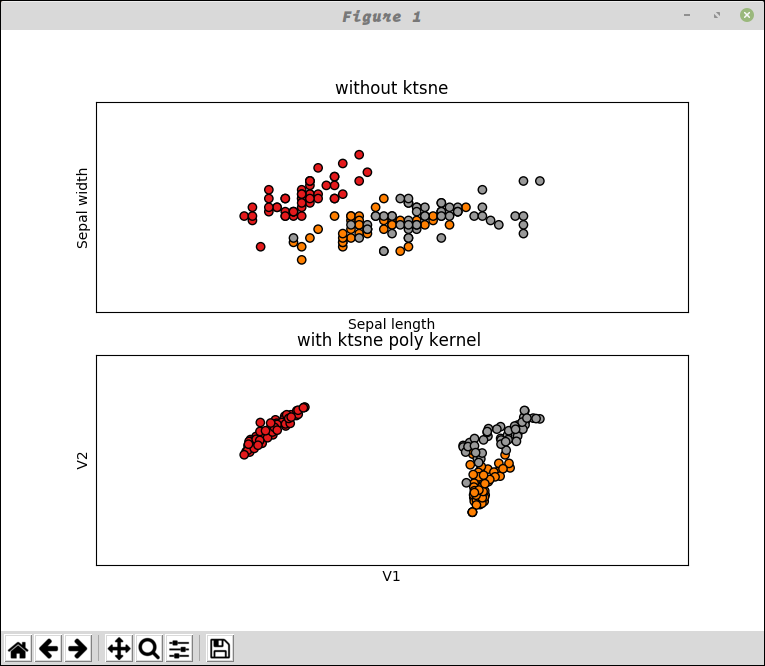
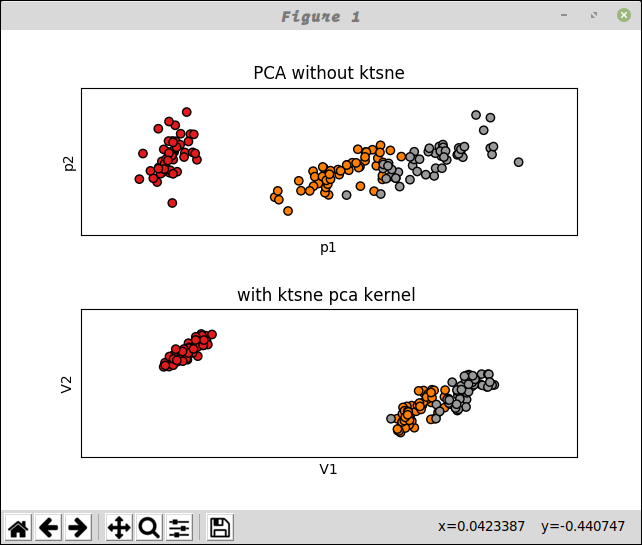
k4

diff --git a/main.py b/main.py
@@ -4,16 +4,16 @@ import matplotlib.pyplot as plt
 from ktsne import Ktsne
 from sklearn import datasets
 from sklearn.preprocessing import MinMaxScaler
-
+from sklearn.decomposition import PCA
 
 iris = datasets.load_iris()
+
 X = iris.data
 y = iris.target
-scaler = MinMaxScaler(feature_range=(0, 1))
+scaler = MinMaxScaler(feature_range=(-1, 1))
 
 f_opts = {'p_degree': 2.0, 'p_dims': 3, 'eta': 25.0,
-          'perplexity': 10.0, 'n_dims': 2, 'ker': 'fourier', 'gamma': 1.0}
-k_tsne = Ktsne(X, f_opts=f_opts)
+          'perplexity': 30.0, 'n_dims': 2, 'ker': 'pca', 'gamma': 1.0}
 
 kernel = f_opts["ker"]
 
@@ -21,37 +21,43 @@ plt.clf()
 
 
 X1 = scaler.fit_transform(X)
-x_min, x_max = X1[:, 0].min() - .5, X1[:, 0].max() + .5
-y_min, y_max = X1[:, 1].min() - .5, X1[:, 1].max() + .5
 
 plt.subplot(2, 1, 1)
 # Plot the training points
-plt.scatter(X1[:, 0], X1[:, 1], c=y, cmap=plt.cm.Set1,
-            edgecolor='k')
-plt.xlabel('Sepal length')
-plt.ylabel('Sepal width')
+X_pca = PCA(n_components=2).fit_transform(X1)
+x_min, x_max = X_pca[:, 0].min() - .5, X_pca[:, 0].max() + .5
+y_min, y_max = X_pca[:, 1].min() - .5, X_pca[:, 1].max() + .5
 
+plt.scatter(X_pca[:, 0], X_pca[:, 1], c=y, cmap=plt.cm.Set1,
+            edgecolor='k')
+plt.xlabel('p1')
+plt.ylabel('p2')
 plt.xlim(x_min, x_max)
 plt.ylim(y_min, y_max)
 plt.xticks(())
 plt.yticks(())
-plt.title("without ktsne")
+plt.title(" PCA without ktsne ")
 
 
+k_tsne = Ktsne(X1, f_opts=f_opts)
 X_reduced = k_tsne.get_solution(3000)
 X_reduced = scaler.fit_transform(X_reduced)
 plt.subplot(2, 1, 2)
 
 plt.scatter(X_reduced[:, 0], X_reduced[:, 1], c=y, cmap=plt.cm.Set1,
             edgecolor='k')
+x1_min, x1_max = X_reduced[:, 0].min() - .5, X_reduced[:, 0].max() + .5
+y1_min, y1_max = X_reduced[:, 1].min() - .5, X_reduced[:, 1].max() + .5
+
 plt.xlabel(' V1 ')
 plt.ylabel(' V2 ')
 
-plt.xlim(x_min, x_max)
-plt.ylim(y_min, y_max)
+plt.xlim(x1_min, x1_max)
+plt.ylim(y1_min, y1_max)
 plt.xticks(())
 plt.yticks(())
 plt.title("with ktsne %s kernel " % kernel)
 
 
+plt.subplots_adjust(hspace=0.5)
 plt.show()

diff --git a/ktsne.py b/ktsne.py
@@ -49,7 +49,7 @@ class Ktsne:
         D = np.sum((X[:, None] - X[None, :])**2, -1)
         return D
 
-    def bin_search(self, d_row, target, tol=1e-2, niter=1000, low=1e-10, up=1e3):
+    def bin_search(self, d_row, target, tol=1e-2, niter=1000, low=1e-10, up=1e2):
 
         for i in xrange(niter):
             estimated = (low + up)/2.
